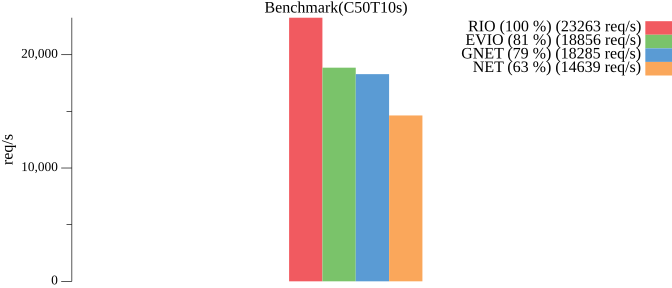
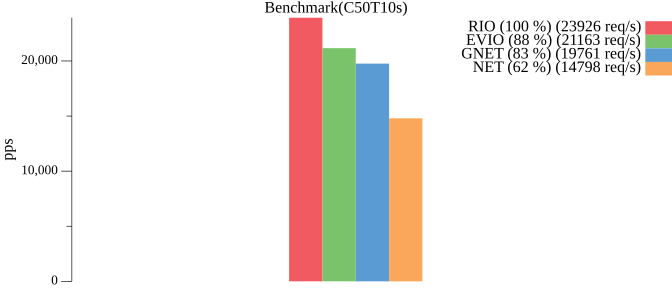
mod

diff --git a/README.md b/README.md
@@ -17,66 +17,27 @@
 * 基于 `net.Listener` `net.Conn` 和 `net.PacketConn` 的实现
 * 使用 `BATCH` 来减少 `SYSTEM CALL` 的开销
 * 支持 `TLS`
-* 支持 `MULTISHOT_ACCEPT` `MULTISHOT_RECV` 和 `MULTISHOT_RECV_MSG`
+* 支持 `MULTISHOT_ACCEPT` `MULTISHOT_RECV` 和 `MULTISHOT_RECV_FROM`
 * 支持 `SEND_ZC` 和 `SENDMSG_ZC`
 * 支持 `NAPI`
 * 支持 `PERSIONALITY`
 * 支持 `CURVE` 进行动态调整 `WAIT CQE` 的超时来适配不同场景
 
 
-## 性能
+## [性能](https://github.com/brickingsoft/rio_examples/tree/main/benchmark) 
+
 
 <img src="benchmark/benchmark_tcpkali_C50T10s.png" width="336" height="144" alt="echo benchmark">
 <img src="benchmark/benchmark_tcpkali_C50R5K.png" width="336" height="144" alt="echo benchmark">
-<img src="benchmark/benchmark_local.png" width="336" height="144" alt="echo benchmark">
-
-<details>
-<summary>详细信息</summary>
-
-使用 `tcpkali` 进行压力测试，[基准测试代码地址](https://github.com/brickingsoft/rio_examples/tree/main/benchmark) 。
-
+<img src="benchmark/benchmark_k6.png" width="336" height="144" alt="echo benchmark">
 
 环境：
 
 | 端   | 平台      | IP              | OS                                           | 规格      |
 |-----|---------|-----------------|----------------------------------------------|---------|
 | 客户端 | WSL2    | 192.168.100.1   | Ubuntu22.04 （6.13.6-microsoft-standard-WSL2） | 4C 16G  |
-| 服务端 | Hyper-V | 192.168.100.120 | Ubuntu24.10（6.11.0-8-generic）                | 4C 0.5G |
+| 服务端 | Hyper-V | 192.168.100.120 | Ubuntu24.10（6.13.12-061312-generic）          | 4C 0.5G |
 
-
-### C50 T10s
-50链接10秒。
-
-```shell
-tcpkali --workers 1 -c 50 -T 10s -m "PING" 192.168.100.120:9000
-```
-结果：
-
-| 种类   | 速率 （pps） | 说明       | 性能    |
-|------|----------|----------|-------|
-| RIO  | 23263.3  | 稳定在23000 | 100 % |
-| EVIO | 18855.5  | 稳定在18000 | 81 %  |
-| GNET | 18284.7  | 稳定在18000 | 79 %  |
-| NET  | 14638.6  | 稳定在14000 | 63 %  |
-
-
-### C50 R5k
-50链接重复5000次。
-
-```shell
-tcpkali --workers 1 -c 50 -r 5k -m "PING" 192.168.100.120:9000
-```
-结果：
-
-| 种类   | 速率 （pps） | 说明       | 性能    |
-|------|----------|----------|-------|
-| RIO  | 44031.1  | 稳定在44000 | 100 % |
-| EVIO | 27997.6  | 稳定在28000 | 64 %  |
-| GNET | 28817.2  | 稳定在28000 | 65 %  |
-| NET  | 27874.5  | 稳定在28000 | 63 %  |
-
-
-</details>
 
 
 ## 使用
@@ -137,6 +98,8 @@ rioConn, ok := conn.(rio.Conn)
 ### 配置
 
 `rio.ListenConfig` 与 `net.ListenConfig` 是类似的，通过配置来监听。
+
+如果需要 `KEEP-ALIVE` ，使用 `rio.ListenConfig` 进行设置。
 ```go
 
 config := rio.ListenConfig{
@@ -150,6 +113,8 @@ ln, lnErr := config.Listen(context.Background(), "tcp", ":9000")
 ```
 
 `rio.Dialer` 与 `net.Dialer` 是类似的，通过配置来拨号。
+
+如果需要 `KEEP-ALIVE` ，使用 `rio.Dialer` 进行设置。
 ```go
 dialer := rio.Dialer{
     Timeout:            0,                          // 超时
@@ -165,7 +130,7 @@ dialer := rio.Dialer{
 conn, dialErr := dialer.DialContext(context.Background(), "tcp", "127.0.0.1:9000")
 ```
 
-### PIN AND UNPIN
+### PIN 和 UNPIN
 
 因 `IOURING` 的设置与关闭过程中有资源处理的步骤，且它的生命周期与使用者的最长生命周期挂钩。
 
@@ -177,6 +142,19 @@ rio.Pin()
 // 在所有链接关闭后进行调用
 rio.Unpin()
 ```
+
+### 完成事件等待曲线
+
+已预设 `aio.NCurve` `aio.SCurve` 和 `aio.LCurve`。
+
+
+| 曲线     | 描述  | 场景           |  
+|--------|-----|--------------|
+| NCurve | 空曲线 | 只适用于非单发布者    | 
+| SCurve | 短曲线 | 适用于单发布者下的短链接 | 
+| LCurve | 长曲线 | 适用于多发布者下的长链接 | 
+
+
 
 ### 预设
 
@@ -190,7 +168,7 @@ rio.Peset(
     // 默认已对单线程进行优化，如何需要开启 SQPOLL，可以进行设置。
     aio.WithFlags(liburing.IORING_SETUP_SINGLE_ISSUER),
     // 是否开启 SEND ZERO COPY。
-    // 默认未开启。
+    // 默认未开启。注意：部分压测工具无法探测到回值。
     aio.WithSendZCEnabled(false),
     // 是否禁止多射模式。
     // 默认未禁止。
@@ -205,9 +183,6 @@ rio.Peset(
     // 参数 idle timeout 是指当不再被使用后，空闲多少时间再注销。
     aio.WithBufferAndRingConfig(4096, 32, 2*time.Second),
     // 设置 CQE 等待时间曲线。
-    // 预设有 aio.SCurve（默认） 和 aio.LCurve 。
-    // 更短的时间有利于更低的延时，如 SCurve 适合 HTTP。
-    // 更长的时间有利于更大的批处理，如 LCurve 适合 EVENT MESSAGE。
     aio.WithWaitCQETimeoutCurve(aio.SCurve),
     // 设置 NAPI。
     // 超时时间最小单位为微妙，默认未开启。
